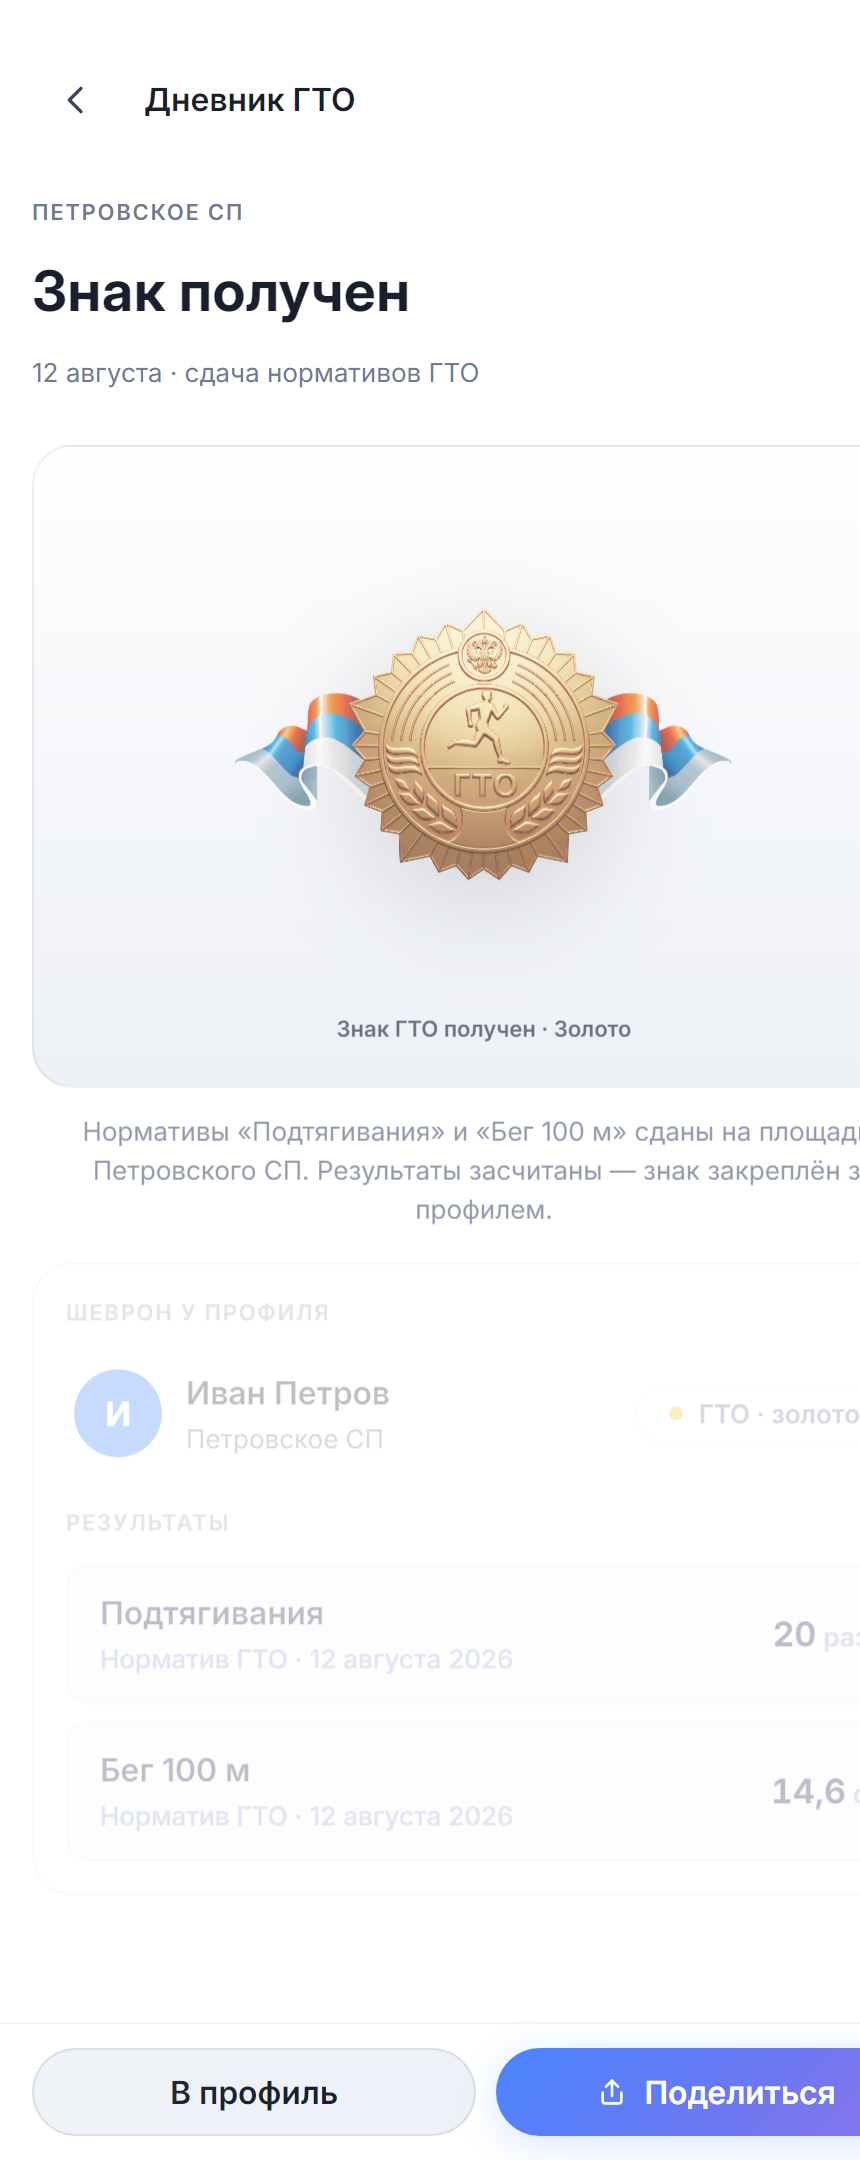
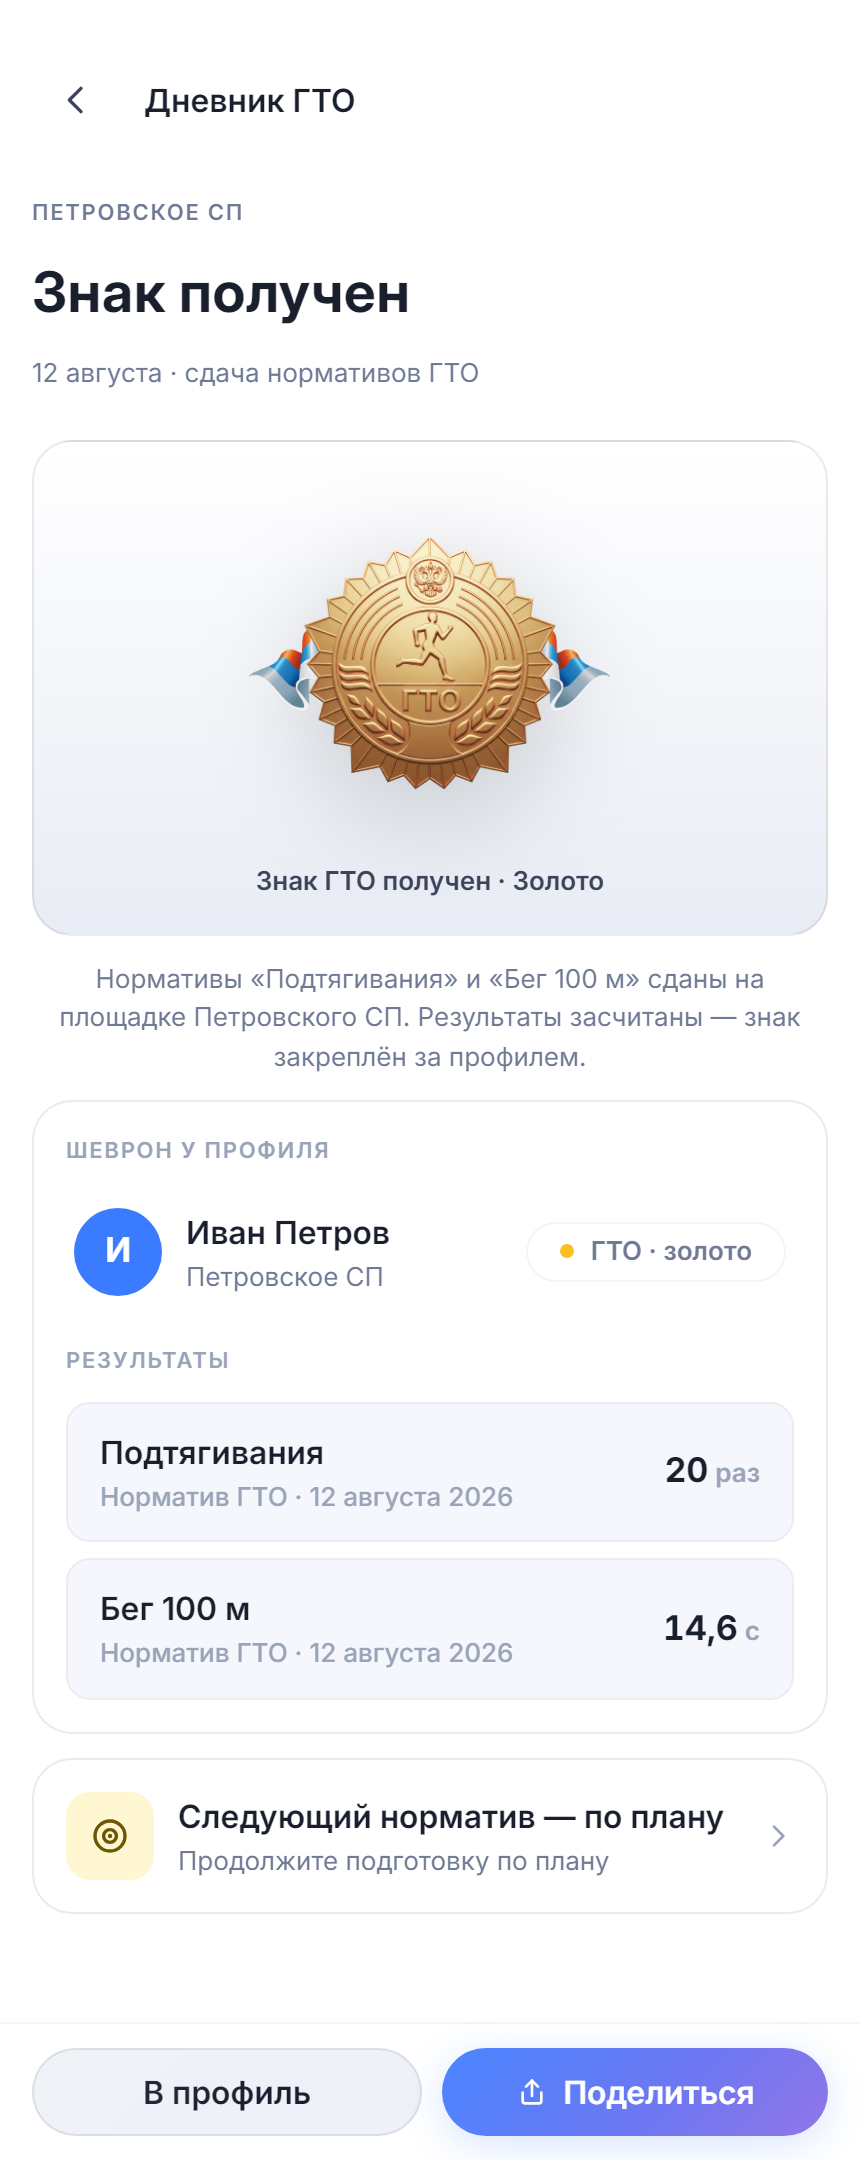
Следующий норматив — пастельно-жёлтый тайл .is-next с иконкой-мишенью, плашка знака компактнее с крупным знаком

diff --git a/design-system-v2.html b/design-system-v2.html
@@ -105,6 +105,7 @@
   <symbol id="ic-pin" viewBox="0 0 24 24"><path d="M12 21s-6.5-5.3-6.5-10a6.5 6.5 0 0 1 13 0c0 4.7-6.5 10-6.5 10z" fill="none" stroke="currentColor" stroke-width="1.7" stroke-linecap="round" stroke-linejoin="round"></path><circle cx="12" cy="11" r="2.2" fill="none" stroke="currentColor" stroke-width="1.7"></circle></symbol>
   <symbol id="ic-info" viewBox="0 0 24 24"><circle cx="12" cy="12" r="8.5" fill="none" stroke="currentColor" stroke-width="1.7"></circle><path d="M12 11v5" stroke="currentColor" stroke-width="1.8" stroke-linecap="round"></path><circle cx="12" cy="7.8" r="0.5" fill="currentColor"></circle></symbol>
   <symbol id="ic-warn" viewBox="0 0 24 24"><path d="M12 4.5L3.5 19.5h17L12 4.5z" fill="none" stroke="currentColor" stroke-width="1.7" stroke-linejoin="round"></path><path d="M12 10.5v4" fill="none" stroke="currentColor" stroke-width="1.8" stroke-linecap="round"></path><circle cx="12" cy="17.2" r="0.4" fill="currentColor"></circle></symbol>
+  <symbol id="ic-target" viewBox="0 0 24 24"><circle cx="12" cy="12" r="7.5" fill="none" stroke="currentColor" stroke-width="1.7"></circle><circle cx="12" cy="12" r="3.2" fill="none" stroke="currentColor" stroke-width="1.7"></circle><circle cx="12" cy="12" r="1.1" fill="currentColor"></circle></symbol>
 
   <symbol id="gto-00-beg-1" viewBox="54.71 192.21 53.99 55.79"><path d="M 85.394531 216.816406 C 85.390625 216.816406 85.390625 216.8125 85.394531 216.816406 L 85.390625 216.8125 L 85.386719 216.8125 C 85.347656 216.769531 85.292969 216.761719 85.253906 216.726562 C 85.117188 216.617188 84.980469 216.511719 84.824219 216.453125 C 84.679688 216.398438 84.53125 216.394531 84.378906 216.375 C 84.3125 216.371094 84.253906 216.339844 84.183594 216.339844 C 84.011719 216.34375 83.855469 216.394531 83.691406 216.449219 C 83.644531 216.464844 83.59375 216.457031 83.554688 216.480469 C 83.457031 216.519531 83.375 216.597656 83.292969 216.660156 C 83.191406 216.726562 83.09375 216.769531 83.003906 216.863281 L 68.808594 231.671875 C 68.164062 232.34375 68.1875 233.414062 68.859375 234.058594 C 69.183594 234.371094 69.605469 234.527344 70.027344 234.527344 C 70.46875 234.527344 70.910156 234.351562 71.246094 234.003906 L 84.273438 220.410156 L 89.339844 225.238281 L 82.585938 225.238281 C 81.652344 225.238281 80.898438 225.992188 80.898438 226.929688 C 80.898438 227.863281 81.652344 228.617188 82.585938 228.617188 L 93.566406 228.617188 C 94.25 228.617188 94.867188 228.195312 95.132812 227.554688 C 95.386719 226.914062 95.230469 226.183594 94.726562 225.703125 Z  M 95.261719 209.203125 C 95.261719 211.066406 93.75 212.578125 91.886719 212.578125 C 90.019531 212.578125 88.507812 211.066406 88.507812 209.203125 C 88.507812 207.339844 90.019531 205.828125 91.886719 205.828125 C 93.75 205.828125 95.261719 207.339844 95.261719 209.203125  M 94.40625 216.800781 L 91.816406 216.800781 L 85.515625 209.34375 C 84.957031 208.679688 83.996094 208.550781 83.28125 209.039062 L 76.714844 213.488281 C 75.945312 214.011719 75.742188 215.0625 76.261719 215.832031 C 76.789062 216.605469 77.839844 216.804688 78.613281 216.285156 L 83.921875 212.6875 L 89.742188 219.582031 C 90.0625 219.964844 90.535156 220.179688 91.035156 220.179688 L 94.410156 220.179688 C 95.347656 220.179688 96.097656 219.429688 96.097656 218.492188 C 96.097656 217.558594 95.34375 216.800781 94.40625 216.800781 "/></symbol>
   <symbol id="gto-01-beg-2" viewBox="125.98 192.21 54.35 55.79"><path d="M 170.140625 216.8125 L 167.550781 216.8125 L 161.25 209.355469 C 160.695312 208.691406 159.730469 208.558594 159.015625 209.046875 L 152.449219 213.496094 C 151.679688 214.023438 151.476562 215.070312 152 215.84375 C 152.519531 216.613281 153.578125 216.816406 154.347656 216.296875 L 159.652344 212.695312 L 165.476562 219.59375 C 165.792969 219.976562 166.269531 220.191406 166.765625 220.191406 L 170.144531 220.191406 C 171.082031 220.191406 171.832031 219.4375 171.832031 218.5 C 171.832031 217.570312 171.078125 216.8125 170.140625 216.8125  M 170.761719 209.214844 C 170.761719 210.945312 169.355469 212.351562 167.621094 212.351562 C 165.886719 212.351562 164.480469 210.945312 164.480469 209.214844 C 164.480469 207.480469 165.886719 206.074219 167.621094 206.074219 C 169.355469 206.074219 170.761719 207.480469 170.761719 209.214844  M 144.816406 228.632812 C 144.816406 227.695312 144.058594 226.941406 143.128906 226.941406 L 137.058594 226.941406 C 136.128906 226.941406 135.371094 227.695312 135.371094 228.632812 C 135.371094 229.566406 136.128906 230.320312 137.058594 230.320312 L 143.128906 230.320312 C 144.054688 230.320312 144.816406 229.566406 144.816406 228.632812  M 137.058594 225.253906 L 146.503906 225.253906 C 147.433594 225.253906 148.191406 224.5 148.191406 223.566406 C 148.191406 222.632812 147.433594 221.878906 146.503906 221.878906 L 137.058594 221.878906 C 136.128906 221.878906 135.375 222.632812 135.375 223.566406 C 135.375 224.5 136.128906 225.253906 137.058594 225.253906  M 137.058594 220.1875 L 149.878906 220.1875 C 150.8125 220.1875 151.566406 219.4375 151.566406 218.5 C 151.566406 217.566406 150.8125 216.8125 149.878906 216.8125 L 137.058594 216.8125 C 136.128906 216.8125 135.375 217.566406 135.375 218.5 C 135.375 219.4375 136.128906 220.1875 137.058594 220.1875  M 161.128906 216.824219 C 161.125 216.824219 161.125 216.824219 161.128906 216.824219 L 161.125 216.820312 L 161.121094 216.820312 C 161.082031 216.78125 161.027344 216.769531 160.988281 216.734375 C 160.851562 216.625 160.714844 216.519531 160.558594 216.464844 C 160.414062 216.410156 160.265625 216.402344 160.113281 216.386719 C 160.046875 216.382812 159.988281 216.351562 159.917969 216.351562 C 159.746094 216.355469 159.589844 216.402344 159.425781 216.460938 C 159.382812 216.472656 159.328125 216.46875 159.289062 216.488281 C 159.191406 216.53125 159.113281 216.609375 159.027344 216.671875 C 158.929688 216.734375 158.824219 216.78125 158.738281 216.871094 L 144.542969 231.679688 C 143.894531 232.355469 143.921875 233.421875 144.59375 234.070312 C 144.921875 234.382812 145.339844 234.535156 145.761719 234.535156 C 146.207031 234.535156 146.648438 234.363281 146.980469 234.011719 L 160.007812 220.421875 L 165.074219 225.25 L 158.320312 225.25 C 157.390625 225.25 156.632812 226.003906 156.632812 226.9375 C 156.632812 227.875 157.390625 228.625 158.320312 228.625 L 169.296875 228.625 C 169.988281 228.625 170.605469 228.207031 170.867188 227.5625 C 171.125 226.921875 170.964844 226.191406 170.460938 225.714844 Z "/></symbol>
@@ -922,8 +923,13 @@
         <span class="mrow-tx"><span class="mrow-t">Серебряный знак</span><span class="mrow-s">осталось 2 норматива · цель</span></span>
         <span class="mrow-side"><span class="mrow-chev"><svg aria-hidden="true"><use href="#ic-chev"></use></svg></span></span>
       </button>
+      <button type="button" class="mrow">
+        <span class="mrow-media is-next"><svg aria-hidden="true"><use href="#ic-target"></use></svg></span>
+        <span class="mrow-tx"><span class="mrow-t">Следующий норматив</span><span class="mrow-s">Бег 100 м · по плану подготовки</span></span>
+        <span class="mrow-side"><span class="mrow-chev"><svg aria-hidden="true"><use href="#ic-chev"></use></svg></span></span>
+      </button>
     </div>
-    <p class="ds-note">ROW ачивка: тайл-медаль с тоном знака — <code>.is-medal</code> (золото), <code>.is-silver</code>, <code>.is-bronze</code>; иконка <code>#ic-medal-solar</code> цветом <code>currentColor</code>. Статус-пилюля справа — готовая <code>.tag</code>.</p>
+    <p class="ds-note">ROW ачивка: тайл-медаль с тоном знака — <code>.is-medal</code> (золото), <code>.is-silver</code>, <code>.is-bronze</code>; иконка <code>#ic-medal-solar</code> цветом <code>currentColor</code>. Статус-пилюля справа — готовая <code>.tag</code>. «Следующий норматив» (цель впереди, а не медаль) — <code>.is-next</code>: пастельно-жёлтая заливка <code>color-mix(--yellow 18%, surface)</code> + иконка-мишень <code>#ic-target</code>.</p>
 
     <h3 class="ds-sub">Картинка / спорт · .mrow-media (квадратный тайл)</h3>
     <div class="ds-panel" style="max-width: 420px;">

diff --git a/assets/ds.css b/assets/ds.css
@@ -1306,6 +1306,12 @@ select.input:invalid { color: var(--muted); }
 .mrow-media.is-medal.is-bronze { background: var(--gto-bronze); color: var(--accent-on); }
 .mrow-media.is-medal svg { color: currentColor; }
 
+/* «Следующий норматив» — будущая цель, не медаль: пастельно-жёлтый
+   тайл (тонкая заливка --yellow поверх поверхности) + иконка-мишень
+   #ic-target цветом --yellow-ink-strong (чернила жёлтого). */
+.mrow-media.is-next { background: color-mix(in srgb, var(--yellow) 18%, var(--surface)); color: var(--yellow-ink-strong); }
+.mrow-media.is-next svg { color: currentColor; }
+
 .mrow-tx { flex: 1; min-width: 0; }
 .mrow-t { display: block; font-size: var(--fs-body); font-weight: 600; color: var(--fg); white-space: nowrap; overflow: hidden; text-overflow: ellipsis; }
 .mrow-s { display: block; margin-top: 1px; font-size: var(--fs-meta); color: var(--muted); white-space: nowrap; overflow: hidden; text-overflow: ellipsis; }
@@ -1975,18 +1981,19 @@ select.input:invalid { color: var(--muted); }
 .gto-plaque {
   position: relative;
   display: flex; flex-direction: column; align-items: center; justify-content: center;
-  min-height: 200px;
-  padding: var(--space-6) var(--space-4) var(--space-5);
+  min-height: 168px;
+  padding: var(--space-5) var(--space-4) var(--space-4);
   background: linear-gradient(180deg, var(--surface) 0%, var(--surface-2) 100%);
   border: 1px solid var(--border);
   border-radius: var(--radius-lg);
   overflow: hidden;
 }
-/* Эмблема в потоке (квадрат 60% ширины плашки), а не поверх: высота
-   плашки растёт под ширину, ничего не обрезается на любых размерах. */
+/* Эмблема в потоке (квадрат 50% ширины плашки), а не поверх: высота
+   плашки растёт под ширину, ничего не обрезается на любых размерах.
+   Знак 80% эмблемы — крупнее ленты, плашка компактнее по высоте. */
 .gto-emblem {
   position: relative;
-  width: 60%; aspect-ratio: 1 / 1;
+  width: 50%; aspect-ratio: 1 / 1;
 }
 .gto-emblem .gto-ribbon {
   position: absolute; inset: 0;
@@ -1996,7 +2003,7 @@ select.input:invalid { color: var(--muted); }
 }
 .gto-emblem .gto-sign {
   position: absolute; inset: 0; margin: auto; z-index: 1;
-  width: 62.5%; aspect-ratio: 1 / 1;
+  width: 80%; aspect-ratio: 1 / 1;
   object-fit: contain;
   filter: drop-shadow(0 12px 28px rgba(0, 0, 0, 0.18));
 }
@@ -2006,7 +2013,7 @@ select.input:invalid { color: var(--muted); }
   position: relative; z-index: 1;
   margin-top: var(--space-2);
   text-align: center;
-  font-size: var(--fs-caption); font-weight: 600; color: var(--fg-2);
+  font-size: var(--fs-meta); font-weight: 600; color: var(--fg-2);
 }
 
 /* Микробар прогресса норматива (ряд ГТО): трек 5px, заливка акцентом */

diff --git a/screens/26-gto-result.html b/screens/26-gto-result.html
@@ -104,7 +104,7 @@
 <body data-od-id="gto-result-screen">
 <svg style="display:none" xmlns="http://www.w3.org/2000/svg" aria-hidden="true">
   <symbol id="ic-chev" viewBox="0 0 24 24"><path d="M9 5l7 7-7 7" fill="none" stroke="currentColor" stroke-width="2" stroke-linecap="round" stroke-linejoin="round"></path></symbol>
-  <symbol id="ic-medal" viewBox="0 0 24 24"><circle cx="12" cy="9" r="5.5" fill="none" stroke="currentColor" stroke-width="1.8"></circle><path d="M12 6.6l.9 1.8 2 .3-1.4 1.4.3 2-1.8-1-1.8 1 .3-2-1.4-1.4 2-.3.9-1.8z" fill="currentColor"></path><path d="M8.5 13.5L6.5 21l3.5-1.5L12 21l2-1.5L17.5 21l-2-7.5" fill="none" stroke="currentColor" stroke-width="1.6" stroke-linecap="round" stroke-linejoin="round"></path></symbol>
+  <symbol id="ic-target" viewBox="0 0 24 24"><circle cx="12" cy="12" r="7.5" fill="none" stroke="currentColor" stroke-width="1.7"></circle><circle cx="12" cy="12" r="3.2" fill="none" stroke="currentColor" stroke-width="1.7"></circle><circle cx="12" cy="12" r="1.1" fill="currentColor"></circle></symbol>
   <symbol id="ic-share" viewBox="0 0 24 24"><path d="M12 15V3.5" fill="none" stroke="currentColor" stroke-width="2" stroke-linecap="round"></path><path d="M7.5 8L12 3.5 16.5 8" fill="none" stroke="currentColor" stroke-width="2" stroke-linecap="round" stroke-linejoin="round"></path><path d="M5 12.5v6a2 2 0 0 0 2 2h10a2 2 0 0 0 2-2v-6" fill="none" stroke="currentColor" stroke-width="2" stroke-linecap="round"></path></symbol>
   <symbol id="ic-info" viewBox="0 0 24 24"><circle cx="12" cy="12" r="8.5" fill="none" stroke="currentColor" stroke-width="1.7"></circle><path d="M12 11v5" stroke="currentColor" stroke-width="1.8" stroke-linecap="round"></path><circle cx="12" cy="7.8" r="0.5" fill="currentColor"></circle></symbol>
 </svg>
@@ -157,7 +157,7 @@
     </section>
 
     <a class="card card-link r-card r-rise" id="r-next" href="23-gto-plan.html" data-od-id="gto-result-next">
-      <span class="mrow-media is-medal"><svg aria-hidden="true"><use href="#ic-medal"></use></svg></span>
+      <span class="mrow-media is-next"><svg aria-hidden="true"><use href="#ic-target"></use></svg></span>
       <span class="mrow-tx"><span class="mrow-t" id="r-next-name">Следующий норматив — Бег 100 м</span><span class="mrow-s" id="r-next-sub">Второй норматив программы — по плану подготовки</span></span>
       <span class="mrow-chev"><svg aria-hidden="true"><use href="#ic-chev"></use></svg></span>
     </a>
